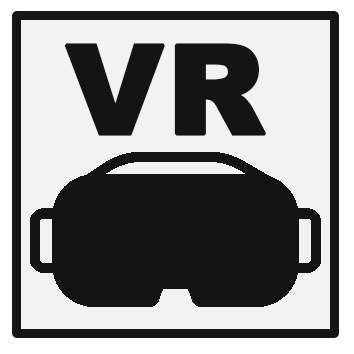
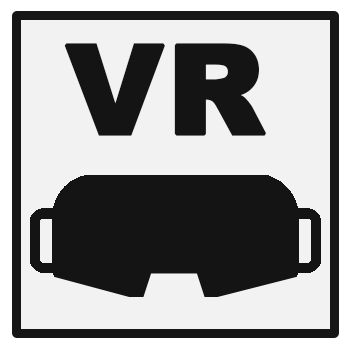
update 2

Changed region(s): [[0.1554, 0.7458, 0.839, 0.8701], [0.2486, 0.404, 0.7458, 0.4972]]

diff --git a/public/about/index.html b/public/about/index.html
@@ -7,8 +7,9 @@
 <meta name="author"
     content="map[name:Hugo Authors]">
 <meta name="description"
-    content="I am PhD student at the University Zurich, studying geographic Information Visualization. I am passionate about behavioral research, data visualization, statistics, and designing interactive applications that deliver a nice UX and that are easy to learn. These web pages are my personal blog about everything, but also geovisualization, UX psychology, and statistical programming with R.
-This browser does not support PDFs. Please download the PDF to view it: Download PDF." />
+    content="I am passionate about behavioral research, data visualization, statistics, and designing interactive applications that deliver a nice UX and that are easy to learn. These web pages are my personal blog about everything, but also geovisualization, UX psychology, and statistical programming with R.
+This browser does not support PDFs. Please download the PDF to view it: Download PDF.
+  -- " />
 <meta name="keywords" content="" />
 <meta name="robots" content="noodp" />
 <link rel="canonical" href="/about/" />
@@ -38,13 +39,14 @@ This browser does not support PDFs. Please download the PDF to view it: Download
 <link rel="mask-icon" href="/safari-pinned-tab.svg" color="#252627">
 <link rel="shortcut icon" href="/favicon.ico">
 <meta name="theme-color" content="#252627"><meta itemprop="name" content="About">
-<meta itemprop="description" content="I am PhD student at the University Zurich, studying geographic Information Visualization. I am passionate about behavioral research, data visualization, statistics, and designing interactive applications that deliver a nice UX and that are easy to learn. These web pages are my personal blog about everything, but also geovisualization, UX psychology, and statistical programming with R.
-This browser does not support PDFs. Please download the PDF to view it: Download PDF.">
+<meta itemprop="description" content="I am passionate about behavioral research, data visualization, statistics, and designing interactive applications that deliver a nice UX and that are easy to learn. These web pages are my personal blog about everything, but also geovisualization, UX psychology, and statistical programming with R.
+This browser does not support PDFs. Please download the PDF to view it: Download PDF.
+  -- ">
 
 
 <meta itemprop="datePublished" content="2014-04-09T00:00:00&#43;00:00" />
 <meta itemprop="dateModified" content="2014-04-09T00:00:00&#43;00:00" />
-<meta itemprop="wordCount" content="70">
+<meta itemprop="wordCount" content="59">
 
 
 
@@ -53,8 +55,9 @@ This browser does not support PDFs. Please download the PDF to view it: Download
 <meta name="twitter:image" content="/"/>
 
 <meta name="twitter:title" content="About"/>
-<meta name="twitter:description" content="I am PhD student at the University Zurich, studying geographic Information Visualization. I am passionate about behavioral research, data visualization, statistics, and designing interactive applications that deliver a nice UX and that are easy to learn. These web pages are my personal blog about everything, but also geovisualization, UX psychology, and statistical programming with R.
-This browser does not support PDFs. Please download the PDF to view it: Download PDF."/>
+<meta name="twitter:description" content="I am passionate about behavioral research, data visualization, statistics, and designing interactive applications that deliver a nice UX and that are easy to learn. These web pages are my personal blog about everything, but also geovisualization, UX psychology, and statistical programming with R.
+This browser does not support PDFs. Please download the PDF to view it: Download PDF.
+  -- "/>
 
 
 
@@ -127,13 +130,16 @@ This browser does not support PDFs. Please download the PDF to view it: Download
             <div class="post-content">
                 <p><img src="figures/screde.JPG" width="270" /></p>
 
-<p>I am PhD student at the University Zurich, studying geographic Information Visualization. I am passionate about behavioral research, data visualization, statistics, and designing interactive applications that deliver a nice UX and that are easy to learn. These web pages are my personal blog about everything, but also geovisualization, UX psychology, and statistical programming with R.</p>
+<p>I am passionate about behavioral research, data visualization, statistics, and designing interactive applications that deliver a nice UX and that are easy to learn. These web pages are my personal blog about everything, but also geovisualization, UX psychology, and statistical programming with R.</p>
 
-<p><object data="figures/cv.pdf" type="application/pdf" width="800px" height="700px">
+<!-- 
+ <object data="figures/cv.pdf" type="application/pdf" width="800px" height="700px">
     <embed src="figures/cv.pdf">
         <p>This browser does not support PDFs. Please download the PDF to view it: <a href="figures/cv.pdf">Download PDF</a>.</p>
     </embed>
-</object></p>
+</object>
+
+--> 
 
             </div>
         </article>

diff --git a/public/projects/index.html b/public/projects/index.html
@@ -42,7 +42,7 @@
 
 <meta itemprop="datePublished" content="2019-09-09T00:00:00&#43;00:00" />
 <meta itemprop="dateModified" content="2019-09-09T00:00:00&#43;00:00" />
-<meta itemprop="wordCount" content="888">
+<meta itemprop="wordCount" content="896">
 
 
 
@@ -122,7 +122,9 @@
             
 
             <div class="post-content">
-                <p></br>
+                
+
+<p></br>
 <img style="float: left;" src="figures/global_wide.png" width="140"></img style>
 </br></p>
 
@@ -175,7 +177,7 @@ Credé, S., &amp; Fabrikant, S. I. (2017, September). Let’s Put the Skyscraper
 
 <p><img style="float:left;" src="figures/expectations_wide.png" width="140"></img style></p>
 
-<p><h2>Designing architecture for the wayfinders&rsquo; expactations</h2></br>
+<p><h2>&nbsp;Designing architecture for the wayfinders&rsquo; expactations</h2></br>
 Expectations are fundamental to our daily behavior. For example, we find it easier to remember an event if it follows a well known script to which we are accustomed. We can say, our expectations affect our experience and the way we understand the world. In UX research we strive to understand and use these expectations to improve the usability of products. However, scientific insights about the role of expectations are scarce, especially when it comes to real world navigation. Expectations during real world navigation is crucial, as people often get lost during the search for destinations in complex indoor structures. How does the usability of a hospital look like?</p>
 
 <p>If we know what people expect of a buildings structure and understand the factors that shape these expectations, we can use this knowledge to improve building design. In my Master&rsquo;s, I studied  peoples&rsquo; expectations of a building&rsquo;s geometry beyond the current line of sight. Do such expectations rely on configurational variables (e.g., symmetry, good form) of the currently perceived building part? By having participants watch virtual building walks we systematically examined how configurational variables influenced expectations about the hallway structure of unknown building parts. The results of this study demonstrate that during indoor navigation, people use backgreound knowledge and tend to expect closed hallway structures and symmetrical layouts. Insights of peoples&rsquo; spatial expectation should be considered in the design of building layouts or when planning emergency exits.
@@ -234,8 +236,19 @@ Who am I? I am not so sure who I am, but I like the person on my profile picture
 <p style="line-height: 1.1;">
 <span style="font-size:0.8em;">
 Sascha Credé (2012). Das Facebook-Profilbild als soziales Dokument – Eine rekonstruktive Analyse. Albert-Ludwigs-Universität Freiburg. <a href="figures/Credé_BA_final.pdf">B.A.</a>
-</span>
-</p></p>
+</span></p>
+
+<h2 id="p"></p></h2>
+
+<p></br></br></br></br></p>
+
+<h3>credits</h3>
+
+<p>icons by  <br/>
+<a href="https://thenounproject.com/creativestall/">Creative Stall</a> <br/>
+<a href="https://thenounproject.com/creativepriyanka/">priyanka</a> <br/>
+<a href="https://thenounproject.com/lokamariella/">lokamariella</a> <br/>
+<a href="https://thenounproject.com/Becris/">Becris</a> <br/></p>
 
             </div>
         </article>

diff --git a/public/index.html b/public/index.html
@@ -8,7 +8,7 @@
 <meta name="author"
     content="Sascha Credé ">
 <meta name="description"
-    content="Sascha Credé" />
+    content="" />
 <meta name="keywords" content="" />
 <meta name="robots" content="noodp" />
 <link rel="canonical" href="/" />
@@ -105,7 +105,6 @@
     <main aria-role="main">
         <div>
             <h1>Sascha Credé</h1>
-                <p>Sascha Credé</p>
                 <div>
                     &nbsp; <a href="https://twitter.com/credesascha" target="_blank" rel="noopener" title="Twitter"><svg xmlns="http://www.w3.org/2000/svg" width="24" height="24" viewBox="0 0 24 24" fill="none" stroke="currentColor" stroke-width="2" stroke-linecap="round" stroke-linejoin="round" class="feather feather-twitter"><path d="M23 3a10.9 10.9 0 0 1-3.14 1.53 4.48 4.48 0 0 0-7.86 3v1A10.66 10.66 0 0 1 3 4s-4 9 5 13a11.64 11.64 0 0 1-7 2c9 5 20 0 20-11.5a4.5 4.5 0 0 0-.08-.83A7.72 7.72 0 0 0 23 3z"></path></svg></a> &nbsp;&nbsp; <a href="mailto:sascha.crede@geo.uzh.ch" target="_blank" rel="noopener" title="Email"><svg xmlns="http://www.w3.org/2000/svg" width="24" height="24" viewBox="0 0 24 24" fill="none" stroke="currentColor" stroke-width="2" stroke-linecap="round" stroke-linejoin="round" class="feather feather-mail"><path d="M4 4h16c1.1 0 2 .9 2 2v12c0 1.1-.9 2-2 2H4c-1.1 0-2-.9-2-2V6c0-1.1.9-2 2-2z"></path><polyline points="22,6 12,13 2,6"></polyline></svg></a> &nbsp;&nbsp; <a href="https://www.linkedin.com/in/sascha_crede/" target="_blank" rel="noopener" title="Linkedin"><svg xmlns="http://www.w3.org/2000/svg" width="24" height="24" viewBox="0 0 24 24" fill="none" stroke="currentColor" stroke-width="2" stroke-linecap="round" stroke-linejoin="round" class="feather feather-linkedin"><path d="M16 8a6 6 0 0 1 6 6v7h-4v-7a2 2 0 0 0-2-2 2 2 0 0 0-2 2v7h-4v-7a6 6 0 0 1 6-6z"></path><rect x="2" y="9" width="4" height="12"></rect><circle cx="4" cy="4" r="2"></circle></svg></a> &nbsp;
                 </div>

diff --git a/content/projects.md b/content/projects.md
@@ -64,7 +64,7 @@ Credé, S., & Fabrikant, S. I. (2017, September). Let’s Put the Skyscrapers on
 
 <img style="float:left;" src="figures/expectations_wide.png" width="140"></img style>
 
-<h2>Designing architecture for the wayfinders' expactations</h2></br>
+<h2>&nbsp;Designing architecture for the wayfinders' expactations</h2></br>
 Expectations are fundamental to our daily behavior. For example, we find it easier to remember an event if it follows a well known script to which we are accustomed. We can say, our expectations affect our experience and the way we understand the world. In UX research we strive to understand and use these expectations to improve the usability of products. However, scientific insights about the role of expectations are scarce, especially when it comes to real world navigation. Expectations during real world navigation is crucial, as people often get lost during the search for destinations in complex indoor structures. How does the usability of a hospital look like?
 
 If we know what people expect of a buildings structure and understand the factors that shape these expectations, we can use this knowledge to improve building design. In my Master's, I studied  peoples' expectations of a building's geometry beyond the current line of sight. Do such expectations rely on configurational variables (e.g., symmetry, good form) of the currently perceived building part? By having participants watch virtual building walks we systematically examined how configurational variables influenced expectations about the hallway structure of unknown building parts. The results of this study demonstrate that during indoor navigation, people use backgreound knowledge and tend to expect closed hallway structures and symmetrical layouts. Insights of peoples' spatial expectation should be considered in the design of building layouts or when planning emergency exits.
@@ -129,6 +129,17 @@ Who am I? I am not so sure who I am, but I like the person on my profile picture
 Sascha Credé (2012). Das Facebook-Profilbild als soziales Dokument – Eine rekonstruktive Analyse. Albert-Ludwigs-Universität Freiburg. [B.A.](figures/Credé_BA_final.pdf)
 </span>
 </p>
+---
+</br></br></br></br>
 
+
+
+<h3>credits</h3>
+
+icons by  <br/>
+[Creative Stall](https://thenounproject.com/creativestall/) <br/>
+[priyanka](https://thenounproject.com/creativepriyanka/) <br/>
+[lokamariella]( https://thenounproject.com/lokamariella/) <br/>
+[Becris](https://thenounproject.com/Becris/) <br/>
 
 

diff --git a/content/about.md b/content/about.md
@@ -12,16 +12,16 @@ title: About
 
 
 
-
-
-
 <img src="figures/screde.JPG" width="270" />
 
-I am PhD student at the University Zurich, studying geographic Information Visualization. I am passionate about behavioral research, data visualization, statistics, and designing interactive applications that deliver a nice UX and that are easy to learn. These web pages are my personal blog about everything, but also geovisualization, UX psychology, and statistical programming with R.
+I am passionate about behavioral research, data visualization, statistics, and designing interactive applications that deliver a nice UX and that are easy to learn. These web pages are my personal blog about everything, but also geovisualization, UX psychology, and statistical programming with R.
 
 
-<object data="figures/cv.pdf" type="application/pdf" width="800px" height="700px">
+<!-- 
+ <object data="figures/cv.pdf" type="application/pdf" width="800px" height="700px">
     <embed src="figures/cv.pdf">
         <p>This browser does not support PDFs. Please download the PDF to view it: <a href="figures/cv.pdf">Download PDF</a>.</p>
     </embed>
 </object>
+
+--> 
